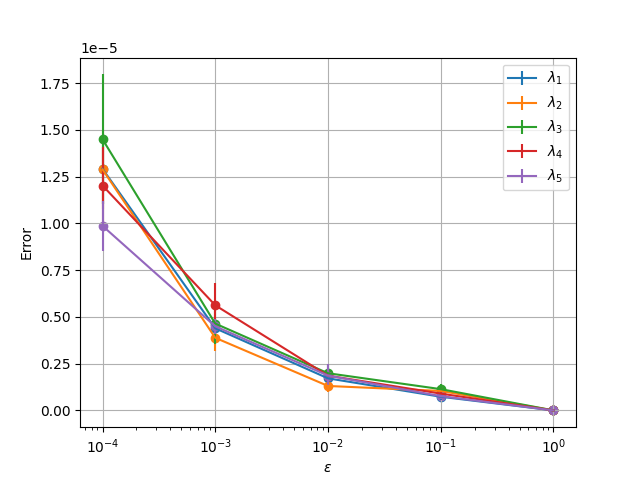
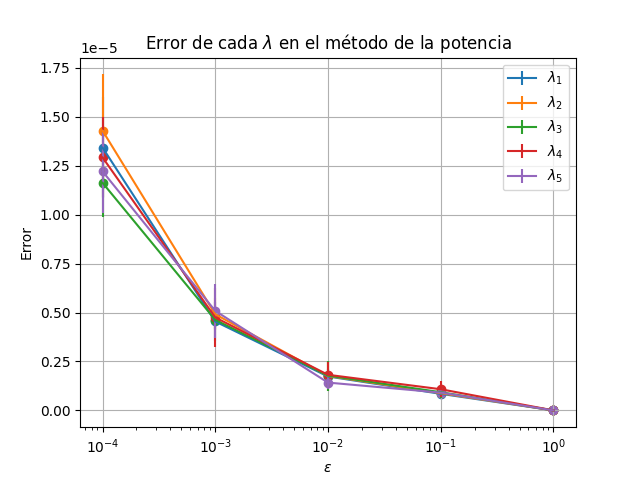
Convergencia y errores

diff --git a/tp2/experimentos.py b/tp2/experimentos.py
@@ -73,9 +73,10 @@ def plot_convergencia(resultados, epsilons):
     plt.ylabel('Iteraciones')
     plt.xlabel('$\epsilon$')
     plt.xscale("log")
-    plt.yscale("log")
+    # plt.yscale("log")
     plt.legend()
     plt.grid(True)
+    plt.title("Iteraciones de cada $\lambda$ en el método de la potencia")
     plt.savefig('graficos/grafico_convergencia.png')
     plt.show()
 
@@ -91,6 +92,7 @@ def plot_error_metodo_potencia(resultados, epsilons):
     plt.xscale("log")
     plt.legend()
     plt.grid(True)
+    plt.title("Error de cada $\lambda$ en el método de la potencia")
     plt.savefig('graficos/grafico_error_metodo_potencia.png')
     plt.show()
 
@@ -129,5 +131,5 @@ if __name__ == "__main__":
 
     resultados_mp = leer_resultados_mp()
     
-    # plot_convergencia(resultados_mp, epsilons)
-    plot_error_metodo_potencia(resultados_mp, epsilons)
+    plot_convergencia(resultados_mp, epsilons)
+    # plot_error_metodo_potencia(resultados_mp, epsilons)

diff --git a/tp2/metodo_potencia.cpp b/tp2/metodo_potencia.cpp
@@ -82,7 +82,7 @@ void escribir_vector(ofstream& f, VectorXd& vec) {
 void escribir_output(vector<vector<AutoData>>& res) {
     ofstream f("output_mp.csv");
 
-    f << "Matriz,Autovalor,Autovector...,Iteraciones...,Error\n";
+    f << "Matriz,Autovalor,Autovector...,IterPromedio,IterDesivo,ErrorPromedio,ErrorDesvio\n";
 
     for(int k = 0; k < res.size(); k++) {
         for (int i = 0; i < res[k].size(); i++) {
@@ -143,7 +143,7 @@ int main(int argc, char** argv) {
         return 1;
     }
 
-    vector<vector<MatrixXd>> matrices = leer_input(argv[1]);
+    vector<vector<MatrixXd>> matrices = leer_input(argv[1]); // Por cada epsilon un vector de Matrices
     
     vector<vector<AutoData>> results;
 
